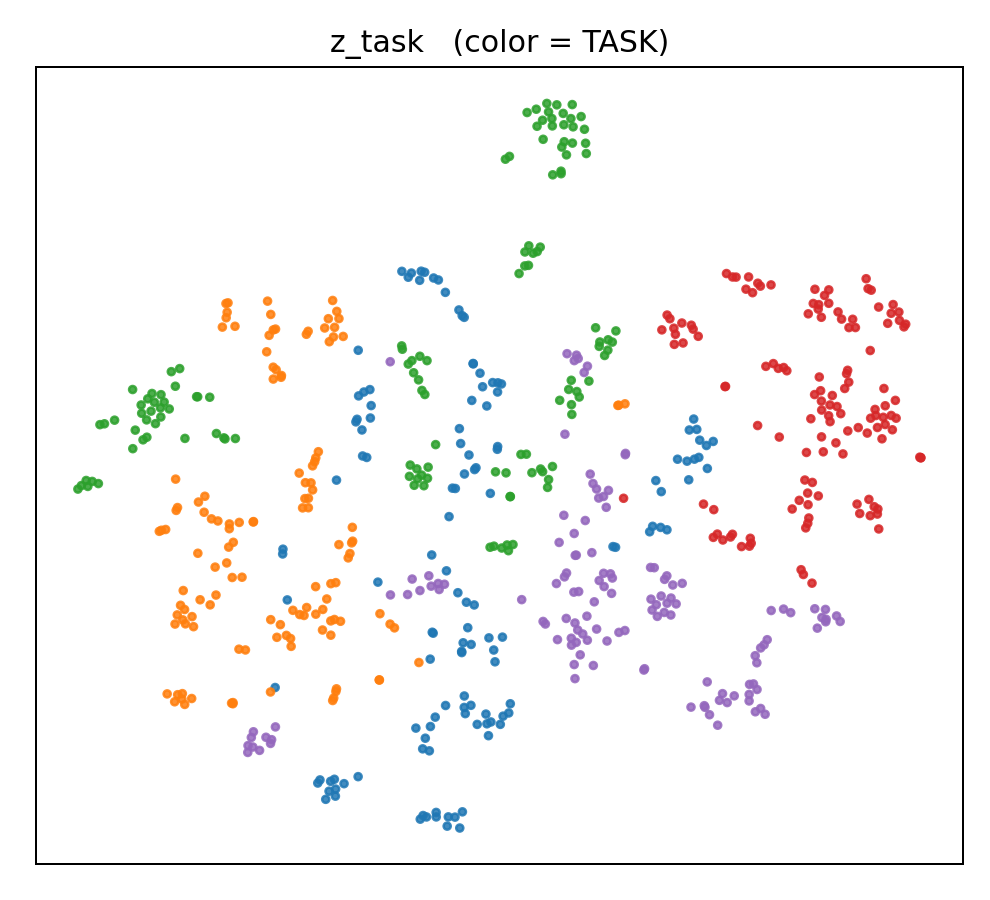
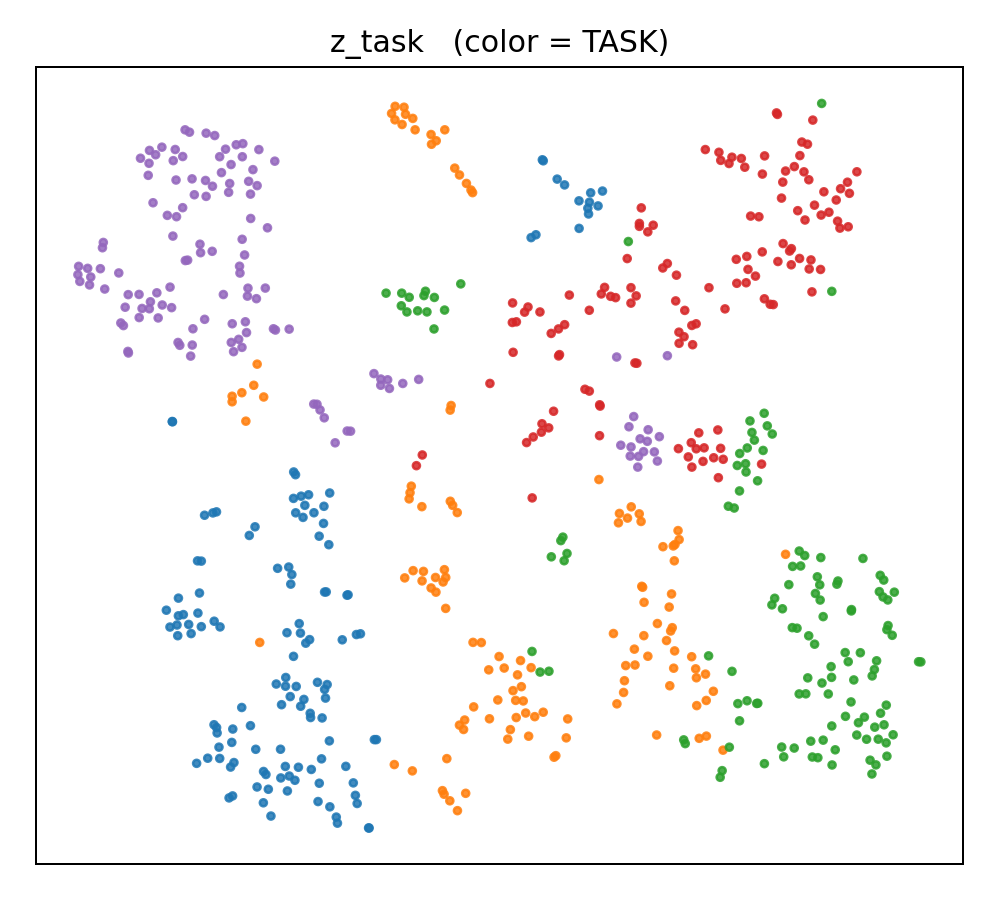
introduced a balanced replay buffer to fx split mnist

diff --git a/train_ot_manifold_buffer.py b/train_ot_manifold_buffer.py
@@ -14,17 +14,17 @@ from torchvision.datasets import MNIST
 from torchvision.transforms import ToTensor
 
 # ─────────────── hyper-parameters ───────────────
-T            = 5
+T            = 10
 BATCH        = 128
 REPLAY_MB    = 128
 REPLAY_CAP   = 4096           # total exemplars
 D_CLS, D_TSK = 128, 32
 LR           = 1e-3
-EMA_ALPHA    = 0.91
+EMA_ALPHA    = 0.98
 
-LAM_ORTHO = 0 
-LAM_M        = 0      # Laplacian anchor weight
-LAM_WD       = 0 
+LAM_ORTHO = 0.1
+LAM_M        = 0.03     # Laplacian anchor weight
+LAM_WD       = 0.1
 TAU          = 0.5            # temperature for distillation
 device       = torch.device('cuda' if torch.cuda.is_available() else 'cpu')
 print("Using device:", device)
@@ -53,6 +53,7 @@ def get_tasks():
                 for p in perms]
     else:
         splits = [list(range(i, i+2)) for i in range(0, 10, 2)]
+        print(splits)
         return [DataLoader(SplitMNIST(base, c), batch_size=BATCH, shuffle=True, drop_last=True)
                 for c in splits]
 
@@ -76,7 +77,86 @@ class ReplayBuf:
         ys = torch.tensor([self.y[i] for i in idx], device=device)
         return xs, ys
 
-buf = ReplayBuf(REPLAY_CAP)
+
+class BalancedReplayBuf:
+    """
+    Class–balanced reservoir replay.
+    • `cap` is the *total* number of exemplars the buffer may store.
+    • When the buffer is not full it just grows.
+    • Once full, every class that has appeared so far is allotted
+        floor(cap / #seen_classes)   slots (±1 for rounding).
+    • New items replace *random* items from their own class bucket
+      (reservoir sampling) so the per–class distribution stays uniform.
+    """
+    def __init__(self, cap, device=torch.device("cpu")):
+        self.cap     = cap
+        self.device  = device         # for `.sample()`
+        self.store   = {}             # cls → [tensor, …]
+
+    # ---------- helpers ----------
+    def _bucket_cap(self):
+        """current max size of each class bucket"""
+        return max(1, self.cap // len(self.store))
+
+    def _total_size(self):
+        return sum(len(v) for v in self.store.values())
+
+    # ---------- public API ----------
+    def add(self, xs, ys):
+        """
+        xs : Tensor [B, …]  (CPU or GPU)
+        ys : Tensor [B]     (CPU or GPU)
+        """
+        for x, y in zip(xs.cpu(), ys.cpu()):
+            c = int(y)
+
+            # ensure bucket exists
+            if c not in self.store:
+                self.store[c] = []
+
+            bucket = self.store[c]
+            b_cap  = self._bucket_cap()
+
+            if len(bucket) < b_cap:               # room inside bucket
+                bucket.append(x.clone())
+            else:                                 # bucket full → reservoir replace
+                k = random.randrange(len(bucket))
+                bucket[k] = x.clone()
+
+            # global overflow possible *only* when a NEW class appeared:
+            while self._total_size() > self.cap:
+                # trim random items from buckets that exceed the new cap
+                for cls, buf in list(self.store.items()):
+                    b_cap = self._bucket_cap()
+                    while len(buf) > b_cap:
+                        buf.pop(random.randrange(len(buf)))
+                    if self._total_size() <= self.cap:
+                        break
+
+    def sample(self, m):
+        """
+        Balanced sampling: try to draw ⌈m / #seen⌉ per class.
+        """
+        if self._total_size() == 0:
+            return None, None
+
+        per = max(1, m // len(self.store))
+        xs, ys = [], []
+        for cls, buf in self.store.items():
+            if not buf:
+                continue
+            idxs = random.sample(range(len(buf)), min(per, len(buf)))
+            xs.extend(buf[i] for i in idxs)
+            ys.extend([cls] * len(idxs))
+
+        if not xs:   # shouldn’t happen, but be safe
+            return None, None
+
+        xs = torch.stack(xs).to(self.device)
+        ys = torch.tensor(ys, device=self.device)
+        return xs, ys
+
+buf = BalancedReplayBuf(REPLAY_CAP, device = device)
 
 # ------------- mean-teacher EMA -----------------
 def ema(student, teacher, alpha=EMA_ALPHA):
@@ -126,7 +206,7 @@ class Net(nn.Module):
         zc = F.normalize(z[:, :D_CLS], p=2, dim=1)
         zt = F.normalize(z[:, D_CLS:], p=2, dim=1)
         cent = self.head(zt if replay_z is None else replay_z)
-        logits = self.fc(torch.cat([zc, cent.detach()], dim=1))
+        logits = self.fc(torch.cat([zc, cent], dim=1))
         return logits
 
 # -------------------------------------------------
@@ -174,7 +254,11 @@ for t, loader in enumerate(tasks):
             # current-task loss
             logits= student(x, None)
             loss = F.cross_entropy(logits, y) 
-            loss += orthogonality_loss(student.head.P)
+            #print(f"CE loss: {loss}") 
+
+            ortho = orthogonality_loss(student.head.P)
+            #print(f"ortho loss: {ortho}")
+            loss += ortho 
 
             # replay + OT-distill + Laplacian anchor
             xr, yr = buf.sample(REPLAY_MB)
@@ -187,12 +271,15 @@ for t, loader in enumerate(tasks):
                 logS = student(xr, None)
                 pS = F.softmax(logS / TAU, dim=1)
                 # Wasserstein distillation
-                wd = LAM_WD * wasserstein_distill(pS, pT)
-                loss += F.cross_entropy(logS, yr) + wd
+                wd = wasserstein_distill(pS, pT)
+                #print(f"wd loss: {wd}")
+                loss += F.cross_entropy(logS, yr) + LAM_WD* wd
+
                 # Laplacian anchor on teacher prototypes
                 if P_anchor is not None:
                     Delta = teacher.head.P - P_anchor
                     man = torch.trace(Delta.t() @ L_anchor @ Delta)
+                    #print(f"manifold loss: {man}")
                     loss += LAM_M * man
 
                 
